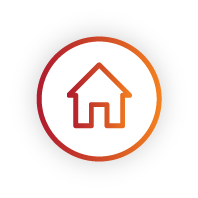
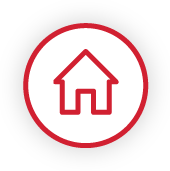
Refactor nav for desktop and mobile

Changed region(s): [[0.1176, 0.117, 0.8824, 0.8772], [0.2941, 0.2632, 0.7059, 0.6725]]

diff --git a/src/styles/Nav.scss b/src/styles/Nav.scss
@@ -1,110 +1,104 @@
 @import "./variables.scss";
+@import "./mixins.scss";
 
-nav {
-  display: flex;
-  flex-direction: column;
-  justify-content: space-between;
+.desktop-row {
+  margin-top: 10px;
 }
 
 .toprow {
   margin-top: 0px;
   font-size: 0px;
   line-height: 0px;
+  img {
+    width: 100%;
+    height: 14px;
+  }
 }
 
-.botrow {
-  display: flex;
-  margin: 10px 10% 10px;
-  justify-content: space-between;
-  align-items: center;
+.home-icon {
+  height: 5vmax;
 }
-
-.toprow img {
-  width: 100%;
-}
-
-.botrow .home-icon {
-  height: 80px;
+.home-link:focus {
+  outline-offset: 0px;
 }
 
 .modal-button {
   padding: 0px 20px;
   height: 60px;
   border-radius: 50px;
-  box-shadow: 0px 0px 15px 1px rgba(0,0,0,0.3);
-  border: 3px solid #B01C2E;
+  box-shadow: 0px 0px 15px 1px rgba(0,0,0,0.2);
+  border: 3px solid $red;
   font-family: 'Apex Sans', 'Open Sans', 'Arial';
-  font-size: 1em;
-  font-weight: 800;  
+  font-size: 1em; 
   font-weight: bold;
 	cursor: pointer;
-	opacity: 0.8;  
 }
 
 .si-button {
-  border-color: #B01C2E;
-  color: #B01C2E;
+  border-color: $red;
+  color: $red;
 }
 
 .continue-button {
   border-color: white;
   color: white;
-  background: linear-gradient(to right, #B01C2E, #F5821F);
-}
-
-.modal-button:hover {
-  opacity: 1;
+  background: $red;
 }
 
 // Logos
-.chevron-logos {
-  display: flex;
-  justify-content: center;
-  img {
-    margin: 0 25px;
-  }
+img.nav-logo {
+  height: 6vmin;
 }
 
-.trinza-logo,
-.sustenna-logo {
-  height: 5vmin;
-}
-
-
-
-@media screen and (max-width: 1200px) {
-  .sustenna-logo {
-    height: 4vmin;
+// Desktop
+@media screen and (min-width: $breakpoint) {
+  nav {
+    margin: 0px $margins 10px;
   }
-  .trinza-logo {
-    height: 4vmin;
-  }
-}
-
-@media screen and (max-width: 805px) {
-  .chevron-logos {
-    img { height: 5vmin; }
-    margin-top: 0px;
-    margin-bottom: 20px;
-  }  
-  .botrow, .nav-logos {
-    flex-direction: column;
+  .desktop-row {
+    display: flex;
+    justify-content: space-between;
     align-items: center;
-    justify-content: center;
+    div.nav-btn {
+      order: 1;
+    }  
+    .sustenna-logo {
+      margin-left: 8%;
+      margin-right: 10px;
+    }    
+    .trinza-logo {
+      margin-left: 10px;
+      margin-right: 4%;
+    }
   }
 }
 
-@media screen and (max-width: 400px) {
-  .chevron-logos {
-    img { 
-      height: 6.5vmin; 
-      margin: 0px;
+// Mobile
+@media screen and (max-width: $breakpoint) {
+  .desktop-row {
+    display: grid;
+    grid-template-columns: 1fr 1fr;
+    grid-template-rows: 1fr 1fr;
+    a.home-link,
+    div.nav-btn {
+      margin: 0px 10% 0px 5%;
     }
-    margin-top: 0px;
-    margin-bottom: 20px;
-  }  
-  .sustenna-logo {
-    position: relative;
-    right: 10px;
-  }  
+    a.home-link {
+      text-align: left;
+    }
+    div.nav-btn {
+      text-align: right;
+    }
+    img.nav-logo {
+      margin: 10px auto 15px;
+      height: 9vmin;
+    }
+  }
+  .modal-button {
+    font-size: 0.7em;
+    line-height: 1em;
+    height: 40px;
+    width: 100px;
+    padding: 0px 10px;
+  }
 }

diff --git a/src/components/Nav.js b/src/components/Nav.js
@@ -27,15 +27,15 @@ export default function Nav({ modal, toggle, closeModal, }) {
       <div className={modal ? "blur toprow" : "toprow"}>
         <img src={topLine} alt="" />
       </div>
-      <div className={modal ? "blur botrow" : "botrow"}>
-        <Link to="/dosing-tool"><img className="home-icon" src={home} alt="Home" aria-label="Home" role="button" /></Link>
-        <div className='chevron-logos'>
-          <img className="sustenna-logo" src={sustenna} alt="ONCE-MONTHLY INVEGA SUSTENNA® paliperidone palmitate PROLONGED-RELEASE INJECTABLE SUSPENSION" />
-          <img className="trinza-logo" src={trinza} alt="PRINVEGA TRINZA® paliperidone palmitate prolonged-release injectable suspension 175 mg, 263 mg, 350 mg, 525 mg" />
-        </div>        
-        <button className="modal-button si-button" onClick={() => toggle()}>
-          Safety Information
-        </button>
+      <div className="desktop-row">
+        <Link className="home-link" to="/dosing-tool"><img className="home-icon" src={home} alt="Home" aria-label="Home" role="button" /></Link>
+        <div className="nav-btn">
+          <button className="modal-button si-button" onClick={() => toggle()}>
+            Safety Information
+          </button>
+        </div>
+        <img className="nav-logo sustenna-logo" src={sustenna} alt="ONCE-MONTHLY INVEGA SUSTENNA® paliperidone palmitate PROLONGED-RELEASE INJECTABLE SUSPENSION" />
+        <img className="nav-logo trinza-logo" src={trinza} alt="PRINVEGA TRINZA® paliperidone palmitate prolonged-release injectable suspension 175 mg, 263 mg, 350 mg, 525 mg" />
       </div>
       <Modal show={modal} closeModal={closeModal}/>
     </nav>

diff --git a/src/components/balance/BalanceTrinza.js b/src/components/balance/BalanceTrinza.js
@@ -4,7 +4,7 @@ export default function BalanceTrinza({ reg }) {
   return (
     <section className="balance">
       <p>
-        <strong className="bold"><span className="bold trinza-color">INVEGA TRINZA{reg}</span> Safety Information</strong><br/>
+        <strong className="bold"><span className="bold sustenna-color">INVEGA TRINZA{reg} Safety Information</span></strong><br/>
         INVEGA&nbsp;TRINZA{reg}, a 3-month injection, is indicated for the treatment of schizophrenia in adult patients. INVEGA&nbsp;TRINZA{reg} is to be used only after INVEGA&nbsp;SUSTENNA{reg} (1-month paliperidone palmitate prolonged-release injectable suspension) has been established as adequate treatment for at least four months. In order to establish a consistent maintenance dose, it is recommended that the last two doses of INVEGA SUSTENNA{reg} be the same dosage strength before starting INVEGA TRINZA{reg}.
       </p>
       <br/>

diff --git a/src/components/balance/BalanceSustenna.js b/src/components/balance/BalanceSustenna.js
@@ -4,7 +4,7 @@ export default function BalanceSustenna({ reg }) {
   return (
     <section className="balance">
       <p>
-        <strong className="bold"><span className="bold sustenna-color">INVEGA SUSTENNA{reg}</span> Safety Information</strong><br/>
+        <strong className="bold"><span className="bold sustenna-color">INVEGA SUSTENNA{reg} Safety Information</span></strong><br/>
         INVEGA SUSTENNA{reg} (paliperidone palmitate) is indicated for the treatment of schizophrenia in adult patients. In controlled clinical trials, INVEGA SUSTENNA{reg} was found to improve the symptoms of schizophrenia, including positive and negative symptoms.
         <br/><br/>
         INVEGA SUSTENNA{reg} is indicated for the maintenance treatment of schizoaffective disorder in adult patients.

diff --git a/src/styles/Modal.scss b/src/styles/Modal.scss
@@ -1,3 +1,5 @@
+@import "./variables.scss";
+
 .modal {
   padding: 0;
   position: fixed;
@@ -10,15 +12,15 @@
   height: max-content;
   min-width: 400px;
   margin: auto;
-  border: 1px solid black;
-  background-color: white;
-  border: 2px solid #B01C2E;
+  border: 1px solid $black;
+  background-color: $white;
+  border: 2px solid $red;
   border-radius: 9px;
   box-shadow: 0px -10px 20px 0px rgba(0,0,0,0.2);
 }
 
 .modal-header-title {
-  color: #F5821F;
+  color: $orange;
   font-weight: 900;
   font-family: 'Apex Sans', 'Open Sans', 'Arial';
   font-size: 24px;
@@ -28,11 +30,11 @@
 .balance p {
   width: 90%;
   line-height: 1.2em;
-  color: #595959;
+  color: $grey;
 }
 
 .balance strong {
-  color: #595959;
+  color: $grey;
 }
 
 .modal-footer {

diff --git a/src/styles/Chevron.scss b/src/styles/Chevron.scss
@@ -13,12 +13,12 @@
 
 .chevron-container {
   width: 100%;
-  background-color: $sustenna-red;
+  background-color: $red;
   opacity: 1; /* needs full opacity */
 }
 
 .heading {
-  background-color: $sustenna-red;
+  background-color: $red;
   width: 100%;
   padding: 35px 0px 30px;
   /* background-color: black; */
@@ -40,7 +40,7 @@
   border-right: 25vmax  solid transparent;
   /* height of chevron is border-top */
   /* border-top: 40px solid black; */
-  border-top: 40px solid $sustenna-red;
+  border-top: 40px solid $red;
 }
 
 @media screen and (max-width: 1200px) {

diff --git a/src/styles/variables.scss b/src/styles/variables.scss
@@ -9,13 +9,16 @@
 // Colours
 $white: #fff;
 $black: #000;
-$sustenna-red: #B01C2E;
-$trinza-blue: #00ACCD;
+$grey: #595959;
+$red: #B01C2E;
+$blue: #00ACCD;
+$orange: #F5821F;
 
-// // Separators
-// $separator-thickness: 7px;
-// $spacing: 2rem;
-// $margins: 10%;
+// Spacing
+$margins: 10%;
+
+// Breakpoint
+$breakpoint: 1000px;
 
 // // Anims
 // $animation-duration: 0.2s;

diff --git a/src/styles/index.scss b/src/styles/index.scss
@@ -39,9 +39,11 @@ a {
   color: inherit;
 }
 
-button:focus,
-.btn:focus,
-.home-icon:focus {
-  box-shadow: rgb(0 0 0) 10px 10px 15px 2px;
-  outline: dotted;
+// button and link focus states
+*:focus {
+  outline: 3px solid black;
+}
+button:focus {
+  outline-offset: 10px;
+  border-radius: 0;
 }
